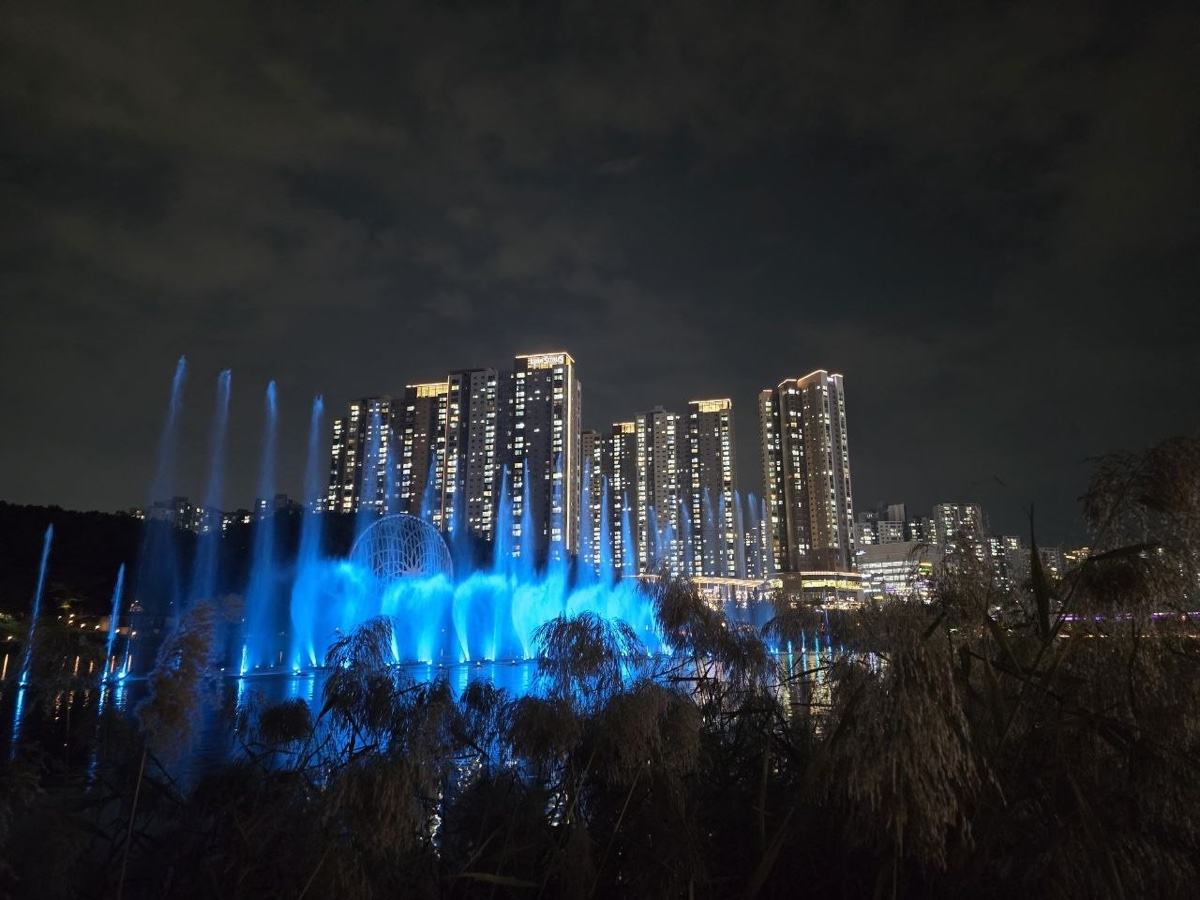
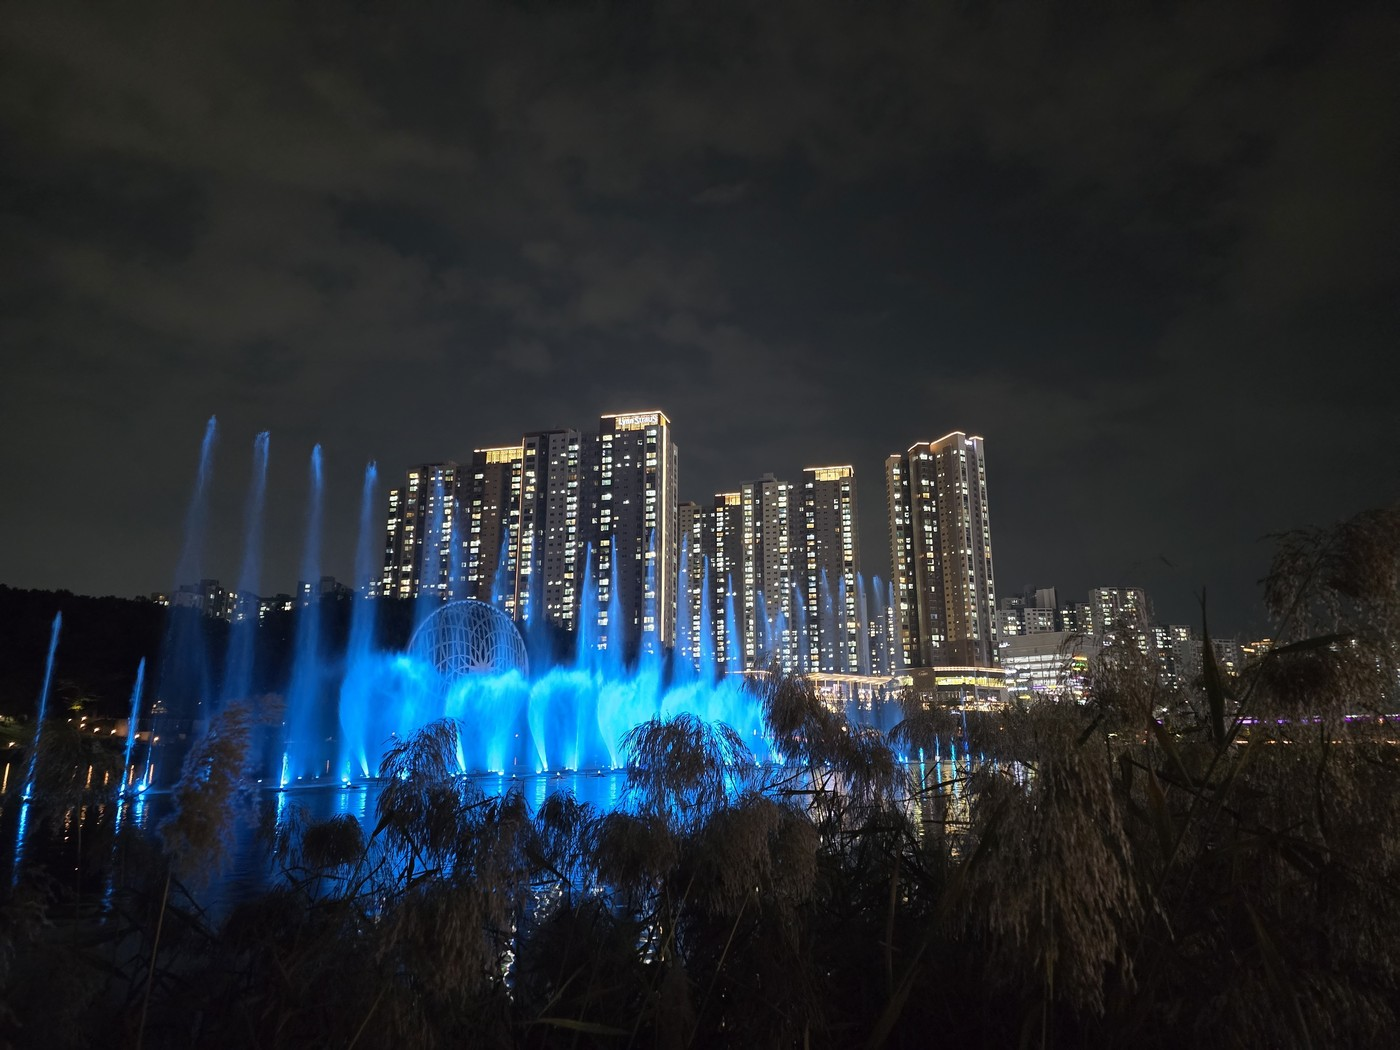
일기 사진 원본 교체(2026-10-11 20:36) + 폴스타4 렌더 갱신

diff --git a/docs/06-life/diary/2026-10-11-walk-lake.html b/docs/06-life/diary/2026-10-11-walk-lake.html
@@ -2,15 +2,15 @@
 <meta name="viewport" content="width=device-width, initial-scale=1">
 <title>2026-10-11 밤 산책 — 호수공원 분수쇼 · jangbc's AI life</title>
 <link rel="stylesheet" href="../../assets/style.css?v=78bac738">
-<meta name="description" content="🌃 2026 10 11 밤 산책 — 호수공원 시간 2026 10 11 (일) 20:39 KST 장소 동탄호수공원 · 분수쇼 기록 산책 중 만난 호수공원의 야경. 파란 조명의 분수쇼가 아파트 숲을 배경으로 펼쳐졌다. 가을 밤 공기가 시원했고, 물보라 너머로 불빛이 길게 번졌다. ">
+<meta name="description" content="🌃 2026 10 11 밤 산책 — 호수공원 시간 2026 10 11 (일) 20:36 KST 장소 동탄호수공원 · 분수쇼 기록 산책 중 만난 호수공원의 야경. 파란 조명의 분수쇼가 아파트 숲을 배경으로 펼쳐졌다. 가을 밤 공기가 시원했고, 물보라 너머로 불빛이 길게 번졌다. ">
 <meta name="robots" content="index,follow,max-image-preview:large">
 <link rel="canonical" href="https://96jangbc.github.io/plab/06-life/diary/2026-10-11-walk-lake.html">
 <meta property="og:type" content="article">
 <meta property="og:title" content="2026-10-11 밤 산책 — 호수공원 분수쇼 · jangbc's AI life">
-<meta property="og:description" content="🌃 2026 10 11 밤 산책 — 호수공원 시간 2026 10 11 (일) 20:39 KST 장소 동탄호수공원 · 분수쇼 기록 산책 중 만난 호수공원의 야경. 파란 조명의 분수쇼가 아파트 숲을 배경으로 펼쳐졌다. 가을 밤 공기가 시원했고, 물보라 너머로 불빛이 길게 번졌다. ">
+<meta property="og:description" content="🌃 2026 10 11 밤 산책 — 호수공원 시간 2026 10 11 (일) 20:36 KST 장소 동탄호수공원 · 분수쇼 기록 산책 중 만난 호수공원의 야경. 파란 조명의 분수쇼가 아파트 숲을 배경으로 펼쳐졌다. 가을 밤 공기가 시원했고, 물보라 너머로 불빛이 길게 번졌다. ">
 <meta property="og:url" content="https://96jangbc.github.io/plab/06-life/diary/2026-10-11-walk-lake.html">
 <meta name="twitter:card" content="summary_large_image">
-<script type="application/ld+json">{"@context":"https://schema.org","@type":"BlogPosting","headline":"2026-10-11 밤 산책 — 호수공원 분수쇼 · jangbc's AI life","description":"🌃 2026 10 11 밤 산책 — 호수공원 시간 2026 10 11 (일) 20:39 KST 장소 동탄호수공원 · 분수쇼 기록 산책 중 만난 호수공원의 야경. 파란 조명의 분수쇼가 아파트 숲을 배경으로 펼쳐졌다. 가을 밤 공기가 시원했고, 물보라 너머로 불빛이 길게 번졌다. ","inLanguage":"ko","url":"https://96jangbc.github.io/plab/06-life/diary/2026-10-11-walk-lake.html","image":"https://96jangbc.github.io/plab/assets/img/hero-p4.jpg","author":{"@type":"Person","name":"jangbc"},"publisher":{"@type":"Organization","name":"jangbc's AI life"}}</script>
+<script type="application/ld+json">{"@context":"https://schema.org","@type":"BlogPosting","headline":"2026-10-11 밤 산책 — 호수공원 분수쇼 · jangbc's AI life","description":"🌃 2026 10 11 밤 산책 — 호수공원 시간 2026 10 11 (일) 20:36 KST 장소 동탄호수공원 · 분수쇼 기록 산책 중 만난 호수공원의 야경. 파란 조명의 분수쇼가 아파트 숲을 배경으로 펼쳐졌다. 가을 밤 공기가 시원했고, 물보라 너머로 불빛이 길게 번졌다. ","inLanguage":"ko","url":"https://96jangbc.github.io/plab/06-life/diary/2026-10-11-walk-lake.html","image":"https://96jangbc.github.io/plab/assets/img/hero-p4.jpg","author":{"@type":"Person","name":"jangbc"},"publisher":{"@type":"Organization","name":"jangbc's AI life"}}</script>
 <meta property="og:image" content="https://96jangbc.github.io/plab/assets/img/hero-p4.jpg">
 <link rel="icon" type="image/png" href="../../assets/img/favicon-32.png?v=78bac738">
 <link rel="apple-touch-icon" href="../../assets/apple-touch-icon.png?v=78bac738"></head><body>
@@ -149,7 +149,7 @@
 <li class="file"><a href="../../index.html">jangbc's AI life</a></li>
 </ul></aside>
 <main class="content"><h1>🌃 2026-10-11 밤 산책 — 호수공원</h1>
-<p><strong>시간</strong> 2026-10-11 (일) 20:39 KST</p>
+<p><strong>시간</strong> 2026-10-11 (일) 20:36 KST</p>
 <p><strong>장소</strong> 동탄호수공원 · 분수쇼</p>
 <p><img alt="호수공원 분수쇼" src="../../assets/img/life/2026-10-11-lake-park.jpg"></p>
 <h2>기록</h2>

diff --git a/content/06-life/diary/2026-10-11-walk-lake.md b/content/06-life/diary/2026-10-11-walk-lake.md
@@ -3,7 +3,7 @@ title: 2026-10-11 밤 산책 — 호수공원 분수쇼
 ---
 # 🌃 2026-10-11 밤 산책 — 호수공원
 
-**시간** 2026-10-11 (일) 20:39 KST
+**시간** 2026-10-11 (일) 20:36 KST
 **장소** 동탄호수공원 · 분수쇼
 
 ![호수공원 분수쇼](../../assets/img/life/2026-10-11-lake-park.jpg)
